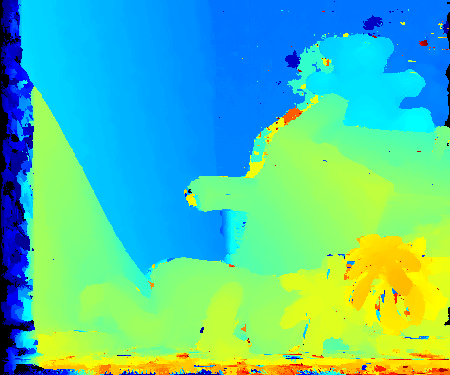
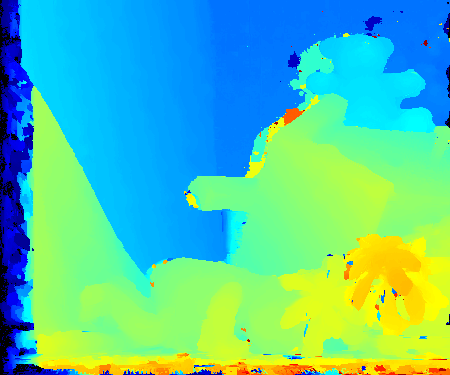
* fix disparity map creation   + from auxiliary variable -> from primal variable * modify LASW paramters * remove unnecessary code

diff --git a/Python/TGV/tgv.py b/Python/TGV/tgv.py
@@ -91,10 +91,8 @@ class TGV:
         cuda_source = cuda_source.replace('TGV_TAU_V', str(self.params.tau_v))
         cuda_source = cuda_source.replace('TGV_TAU_P', str(self.params.tau_p))
         cuda_source = cuda_source.replace('TGV_TAU_Q', str(self.params.tau_q))
-        cuda_source = cuda_source.replace('TGV_LAMBDA_D', str(self.params.lambda_d))
         cuda_source = cuda_source.replace('TGV_LAMBDA_S', str(self.params.lambda_s))
         cuda_source = cuda_source.replace('TGV_LAMBDA_A', str(self.params.lambda_a))
-        cuda_source = cuda_source.replace('TGV_BETA', str(self.params.beta))
 
         self.gpu_module = cp.RawModule(code=cuda_source)
         self.gpu_module.compile()
@@ -383,7 +381,7 @@ class TGV:
             self.var_theta *= (1 - self.params.beta * n)
 
         # compute disparity
-        self.d_TGV = self.var_a.reshape(self.img_ref.shape) * cp.float32(self.params.max_disparity)
+        self.d_TGV = self.var_u.reshape(self.img_ref.shape) * cp.float32(self.params.max_disparity)
 
     def get_disparity(self, method):
         if method == 'LASW':

diff --git a/Python/TGV/tgv_params.py b/Python/TGV/tgv_params.py
@@ -37,8 +37,8 @@ class tgv_params:
         self.max_disparity = 64
         self.census_radius = 3
         self.aggregation_radius = 7
-        self.aggregation_gamma_c = 14
-        self.aggregation_gamma_p = 8
+        self.aggregation_gamma_c = 20
+        self.aggregation_gamma_p = 10
         self.aggregation_k = 5
         # settings of [1]
         self.max_iteration = 80
